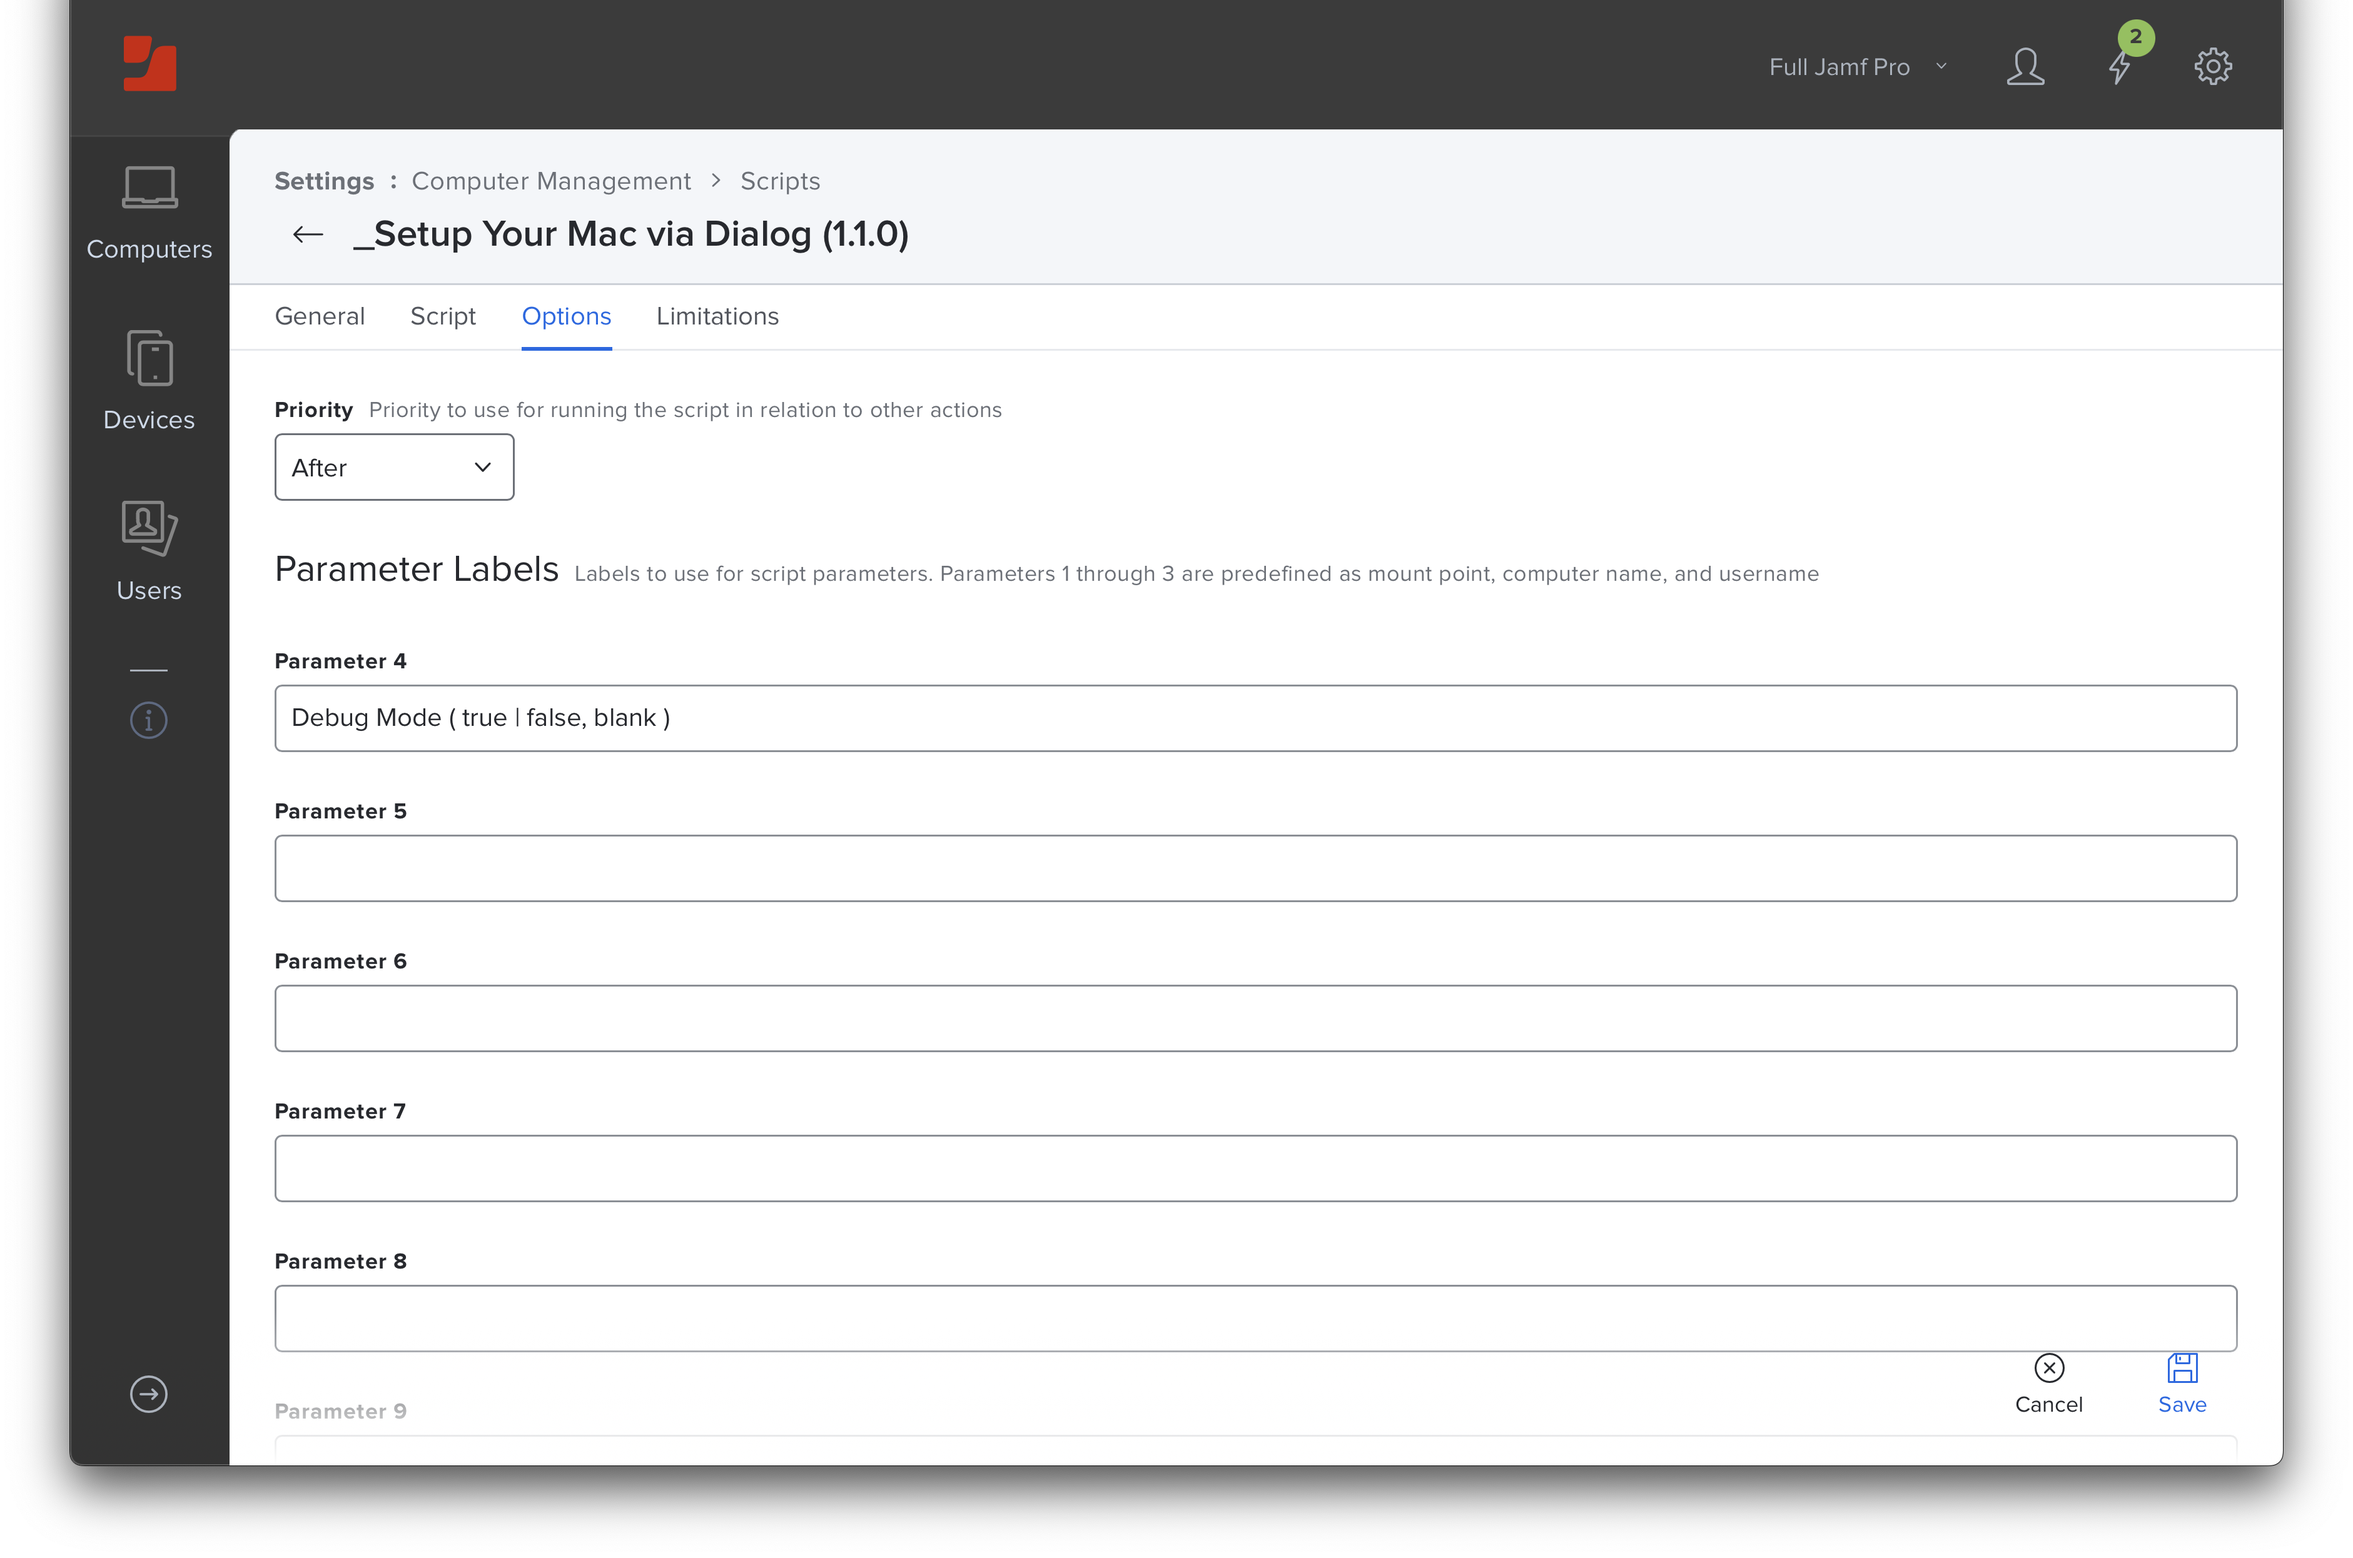
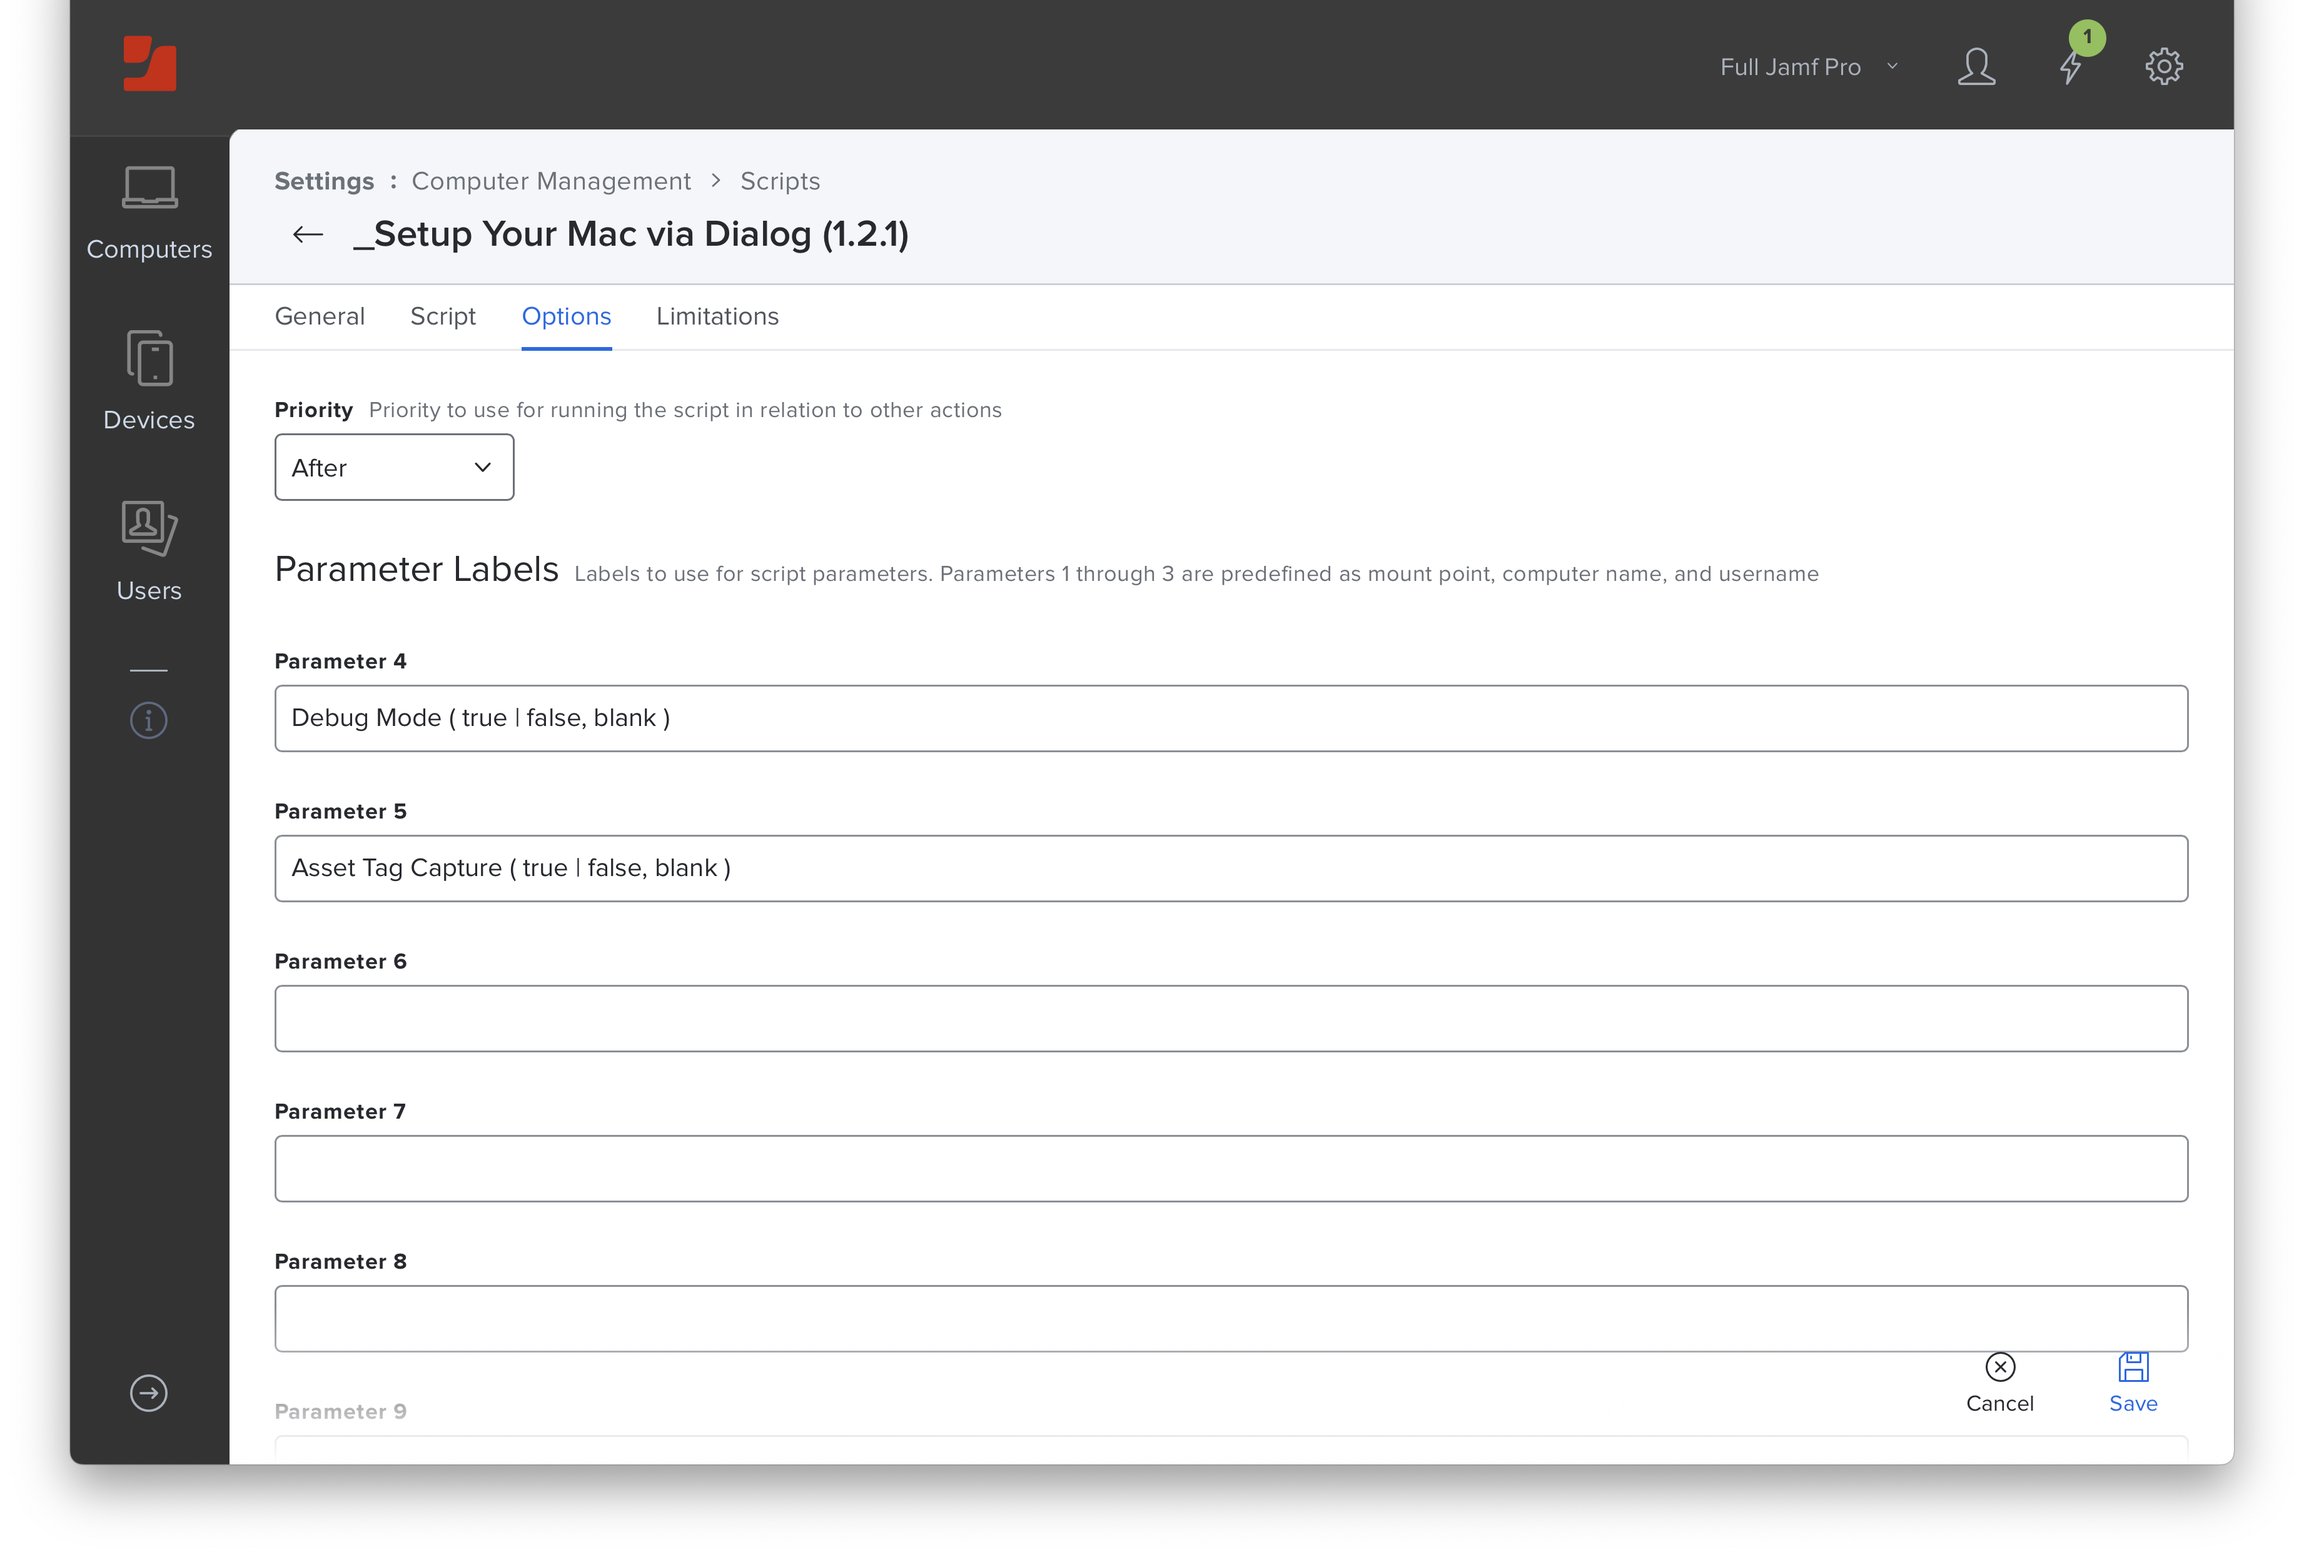
v1.2.1 allows Asset Tag Capture to be disabled via Jamf Pro Script Parameter 5

diff --git a/Setup Your Mac/README.md b/Setup Your Mac/README.md
@@ -1,6 +1,6 @@
 # Setup Your Mac via swiftDialog
 
-> Leverages [swiftDialog](https://github.com/bartreardon/swiftDialog/releases) v1.11.0.2704 (or later) and Jamf Pro Policy [Custom Events](https://docs.jamf.com/10.36.0/jamf-pro/documentation/Policy_Management.html?hl=custom%2Cevent#ID-0001f43f) to allow end-users to self-complete Mac setup **post-enrollment** via Jamf Pro's Self Service. (See Jamf Pro Known Issues `PI100009 - PI-004775`.)
+> Leverages [swiftDialog](https://github.com/bartreardon/swiftDialog/releases) v1.11.0.2758 (or later) and Jamf Pro Policy [Custom Events](https://docs.jamf.com/10.36.0/jamf-pro/documentation/Policy_Management.html?hl=custom%2Cevent#ID-0001f43f) to allow end-users to self-complete Mac setup **post-enrollment** via Jamf Pro's Self Service. (See Jamf Pro Known Issues `PI100009 - PI-004775`.)
 
 Inspired by:
 - Rich Trouton ([@rtrouton](https://github.com/rtrouton))
@@ -30,6 +30,10 @@ Based on:
 ### Asset Tag Capture
 
 Version `1.1.0` prompts the user to provide an Asset Tag, which is captured and reported in the **Setting up your Mac** screen and submitted near the end of the scipt when inventory is updated via `jamf recon -assetTag ${assetTag}`.
+
+#### Asset Tag Capture Optional
+
+Version `1.2.1` **requires** a Jamf Pro Administrator to _specifically enable_ Asset Tag Capture by setting Script Parameter 5 to `true` (i.e., defaults to disabled).
 
 ![Asset Tag Capture](images/Asset_Tag_Capture.png "Asset Tag Capture")
  ### Debug Mode
@@ -178,9 +182,11 @@ policy_array=('
 > Labels to use for script parameters. Parameters 1 through 3 are predefined as mount point, computer name, and username
 
 - **Parameter 4:** `Debug Mode ( true | false, blank)`
+- **Parameter 5:** `Asset Tag Capture ( true | false, blank)`
 
 ### Jamf Pro Policy Script Payload
 
 ![Jamf Pro Policy Script Payload](images/Policy_Script_Payload.png "Jamf Pro Policy Script Payload")
 
-- **Debug Mode:** `true` to enable Debug Mode; _anything else_ to disable
+- **Debug Mode:** `true` to enable Debug Mode; defaults to disabled
+- **Asset Tag Capture:** `true` to prompt user to provide an Asset Tag; defaults to disabled
